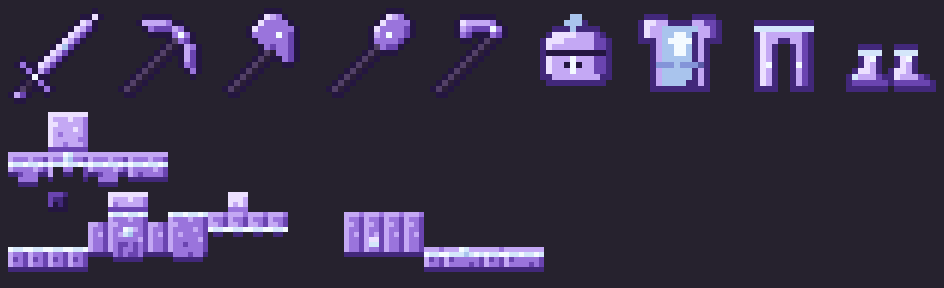
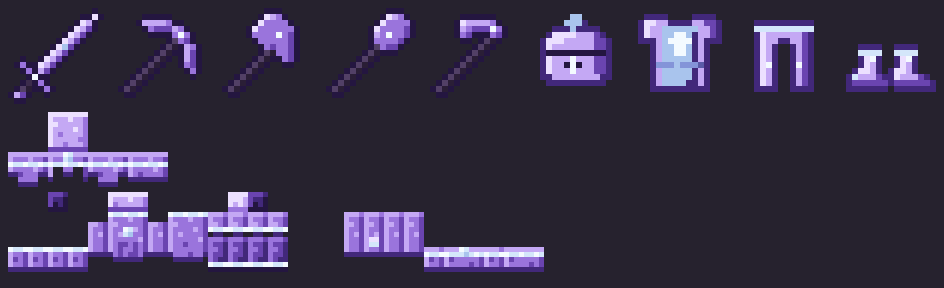
Choirsteel chestplate covers the whole arm; worn preview in the Studio
Claude-Session: https://claude.ai/code/session_01A4uWhYRSEH2XWBk9pdCzAk

Changed region(s): [[0.215, 0.8125, 0.3072, 0.9375], [0.2458, 0.6562, 0.3072, 0.7188]]

diff --git a/studio/build_manifest.py b/studio/build_manifest.py
@@ -140,7 +140,7 @@ for n,name in [("veinstone","Veinstone"),("undertow_moss","Veilmoss"),("veil_roc
 g("ut_hollow_brick","Veinstone Bricks","The Hollow",[cube("Brick",one('siege_veinstone_bricks')),cube("Cracked",one('siege_cracked_veinstone_bricks'))],"New block. Dark violet stone bricks with magenta root veins; the cracked kind has glowing violet cracks.")
 g("ut_pale_ash","Pale Ash","The Hollow",[cube("Block",one('siege_pale_ash'))],"New block. Soft grey-lilac dust for the wastes.")
 g("ut_glow_crystal","Glint Cluster","The Hollow",[{"label":"Cluster","model":"item","mats":{"*":B+'siege_glint_cluster.png'}}],"New block. Cross-shaped in game, gives light. Shown flat here.")
-g("ut_choirsteel","Choirsteel gear","The Hollow",[{"label":n.title(),"model":"item","mats":{"*":I+'siege_choirsteel_%s.png'%n}} for n in ("sword","pickaxe","axe","shovel","hoe","helmet","chestplate","leggings","boots")]+[{"label":"Worn sheet %d"%k,"model":"item","mats":{"*":'textures/models/armor/choirsteel_layer_%d.png'%k}} for k in (1,2)],"Pale violet forged metal with a pale blue gem or band. Worn sheets are shown flat.")
+g("ut_choirsteel","Choirsteel gear","The Hollow",[{"label":n.title(),"model":"item","mats":{"*":I+'siege_choirsteel_%s.png'%n}} for n in ("sword","pickaxe","axe","shovel","hoe","helmet","chestplate","leggings","boots")]+[{"label":"Worn (full set)","model":"armor","mats":{"layer1":'textures/models/armor/choirsteel_layer_1.png',"layer2":'textures/models/armor/choirsteel_layer_2.png'}}]+[{"label":"Worn sheet %d"%k,"model":"item","mats":{"*":'textures/models/armor/choirsteel_layer_%d.png'%k}} for k in (1,2)],"Pale violet forged metal with a pale blue gem or band. All nine pieces, plus the full set as worn.")
 g("ut_plants","Veilcap and Glimbulb","The Hollow",[{"label":"Veilcap","model":"item","mats":{"*":B+'siege_veilcap.png'}},{"label":"Glimbulb","model":"item","mats":{"*":B+'siege_glimbulb.png'}}],"Cross-shaped plants in game. Shown flat here.")
 g("ut_items","Tuning Fork and Choir Shard","The Hollow",[{"label":"Tuning Fork","model":"item","mats":{"*":I+'siege_tuning_fork.png'}},{"label":"Choir Shard","model":"item","mats":{"*":I+'siege_choir_shard.png'}}])
 g("plot_stone","Plot Stone","Plots",[sided("Block",'siege_plot_stone_side','siege_plot_stone_top','siege_plot_stone_bottom')])

diff --git a/studio/art/build_choirsteel.py b/studio/art/build_choirsteel.py
@@ -100,6 +100,9 @@ for y in range(6, 9):
 ar = faces(40, 16, 4, 12, 4)
 plate(p, ar['top'], tone=5)
 for k in ('front', 'back', 'right', 'left'): plate(p, ar[k], lambda x, y, w, h: y < 4 or (y == 4 and 0 < x < w - 1), band=3)
+for k in ('front', 'back', 'right', 'left'):                                    # vambrace and cuff below the pauldron
+    f = ar[k]; plate(p, (f[0], f[1] + 5, f[2], 7), tone=2, band=5)
+plate(p, ar['bottom'], tone=1)
 lg = faces(0, 16, 4, 12, 4)
 for k in ('front', 'back', 'right', 'left'):
     f = lg[k]; plate(p, (f[0], f[1] + 7, f[2], 5), band=0)

diff --git a/CHANGELOG.md b/CHANGELOG.md
@@ -54,6 +54,7 @@ Everything merged to `main` since the last release goes here. Each pull request 
 - The morning after the first Hollow soldiers appear is now told settlement by settlement, to the people of the settlement that saw them, instead of to everyone in the world at once.
 
 ### Changed
+- The Choirsteel chestplate now covers the whole arm (vambrace and cuff under the shoulder plate), not just the shoulders.
 - On the map a settlement's land is full size (60 blocks) from the day you arrive, and siege wins no longer grow it. Tiers still unlock wall levels, buildings and keep health. A Castle's keep now really has 600 health.
 - Regional roles are now earned by a deed in their region instead of by raising a Stone Hall there: Forgemaster for bringing down the Pale Huntsman, Captain for the Drowned Bride, Witch for the Mother of Changelings, and Dragon Rider when your first dragon hatches.
 - The endless siege (the Long Night) now begins when the Rift is opened, not when the Choir falls. Thunderstorms roll in with each wave of it and clear between them.
